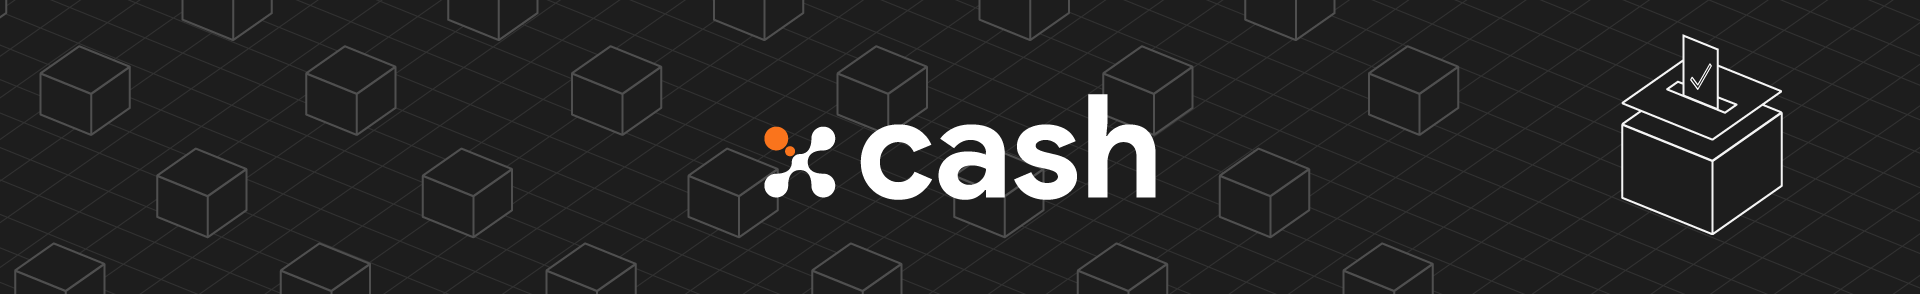
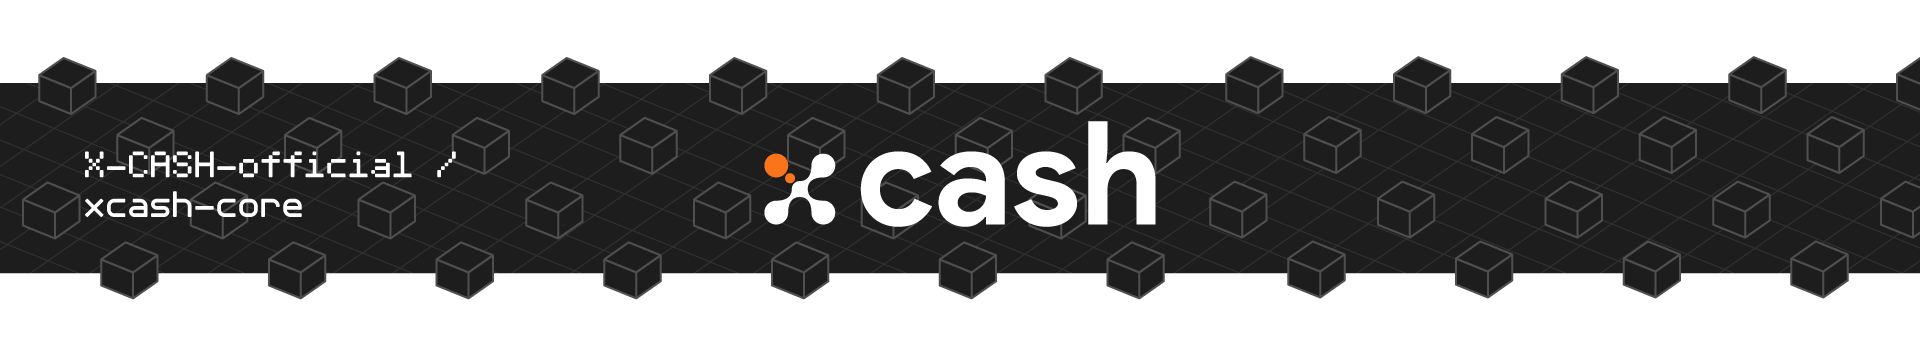
chore: update header.png
Updated header image and several links

diff --git a/README.md b/README.md
@@ -119,7 +119,7 @@ then run the following command to rebuild using fPIC
 
 ### Cloning the repository
 
-`$ git clone https://github.com/X-CASH-official/X-CASH`
+`$ git clone https://github.com/X-CASH-official/xcash-core`
 
 ### Build instructions
 
@@ -242,7 +242,6 @@ cmake -D STATIC=ON -D ARCH="x86-64" -D BUILD_64=ON -D BUILD_TESTS=ON -D BOOST_RO
 cd ../../
 make -IBOOST_BUILD_DIR/include -IOPENSSL_BUILD_DIR/include -IPCSC_LITE_BUILD_DIR/include LDFLAGS="-LBOOST_BUILD_DIR/lib -LOPENSSL_BUILD_DIR/lib -LPCSC_LITE_BUILD_DIR/lib" -j `nproc`
 ```
-
 
 
 #### On Windows:
